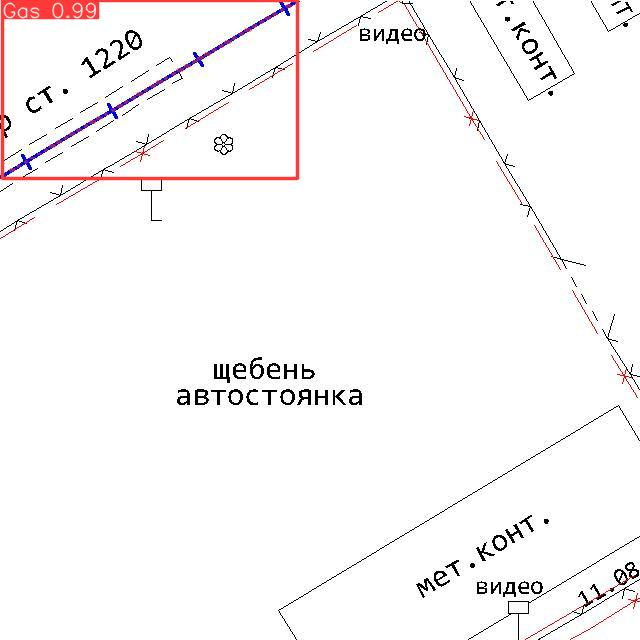
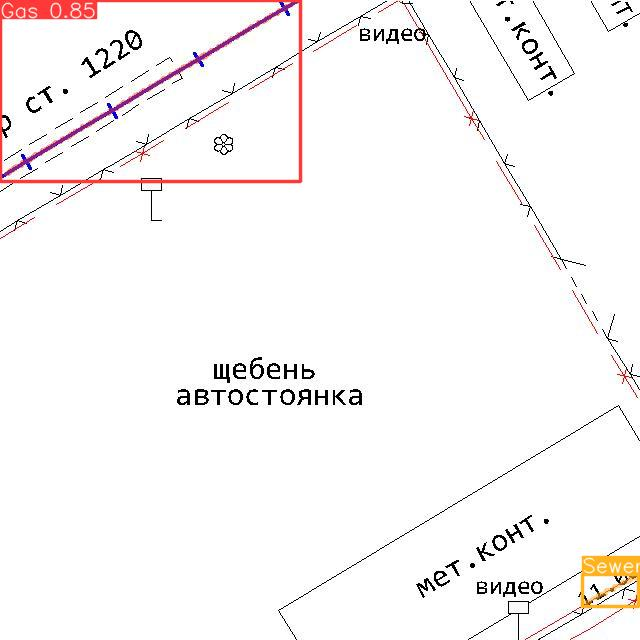
Новые гиперпараметры для более корректных масок

diff --git a/04_segment/01_Ultralytics/segment.py b/04_segment/01_Ultralytics/segment.py
@@ -1,31 +1,22 @@
-import geopandas as gpd
-import numpy as np
-from shapely.geometry import Point, Polygon, LineString
+import os
 from ultralytics import YOLO
 from PIL import Image
 
 # Load a model
-model = YOLO('C:\\Repos\\Ayrapetov\\07_AI_project\\04_segment\\01_Ultralytics\\runs\\segment\\train12\\weights\\best.pt')  # load a pretrained model
+model = YOLO('C:\\Repos\\Ayrapetov\\07_AI_project\\04_segment\\01_Ultralytics\\runs\\segment\\train24\\weights\\best.pt')  # load a pretrained model
 
-# Define path to directory containing images and videos for inference
-source = '../../02_mark/images/План 1_1_1.jpg'
+# Путь к папке с изображениями
+pth_raw = 'C:\\Repos\\Ayrapetov\\07_AI_project\\02_mark\\images'
+source = []
+for dirpath, dirnames, filenames in os.walk(pth_raw):
+    for filename in filenames:
+        source.append(os.path.join(dirpath, filename))
 
-# Run inference on the source
-results = model(source, stream=True)  # generator of Results objects
+# Запуск модели
+results = model(source, stream=True, agnostic_nms=True, overlap_mask=False)  # generator of Results objects
 
 for r in results:
     im_array = r.plot()
     im = Image.fromarray(im_array[..., ::-1])
     image_name = r.path.split("\\")[-1:][0]
     im.save(f'result/{image_name}')
-    class_id = r.boxes.cls.cpu().numpy()
-    pol = (r[1].masks.xy)
-    box = (r.boxes.xyxy.cpu().numpy())
-
-x = []
-new_pol = LineString(pol[0])
-for i in pol[0]:
-    x.append((i[0], i[1]))
-
-
-print(np.asarray(new_pol.coords))

diff --git a/04_segment/01_Ultralytics/train_seg.py b/04_segment/01_Ultralytics/train_seg.py
@@ -15,7 +15,7 @@ def main():
     # название текущей сессии
     task = Task.init(
         project_name="AutoCAD_segment",
-        task_name="Pipe_4cls_pixel.v6"
+        task_name="Pipe_4cls_pixel.v9-2"
         )
 
     # ClearML; Определение модели на которой будет происходить обучение
@@ -24,11 +24,12 @@ def main():
 
     model = YOLO('yolov8l-seg.pt')
 
-    args = dict(data='datasets/Pipe_4cls_pixel.v6/data.yaml',
+    args = dict(data='datasets/Pipe_4cls_pixel.v9/data.yaml',
                 epochs=250,
                 imgsz=640,
                 freeze=8,
-                patience=30,
+                patience=20,
+                overlap_mask=False
                 )
     task.connect(args)
 

diff --git a/04_segment/01_Ultralytics/centerline.py b/04_segment/01_Ultralytics/centerline.py
@@ -1,0 +1,10 @@
+from shapely.geometry import Polygon
+from centerline.geometry import Centerline
+
+polygon = Polygon([[0, 0], [0, 4], [4, 4], [4, 0]])
+attributes = {"id": 1, "name": "polygon", "valid": True}
+
+centerline = Centerline(polygon, **attributes)
+centerline.id == 1
+
+print(centerline.name, centerline.geoms)
